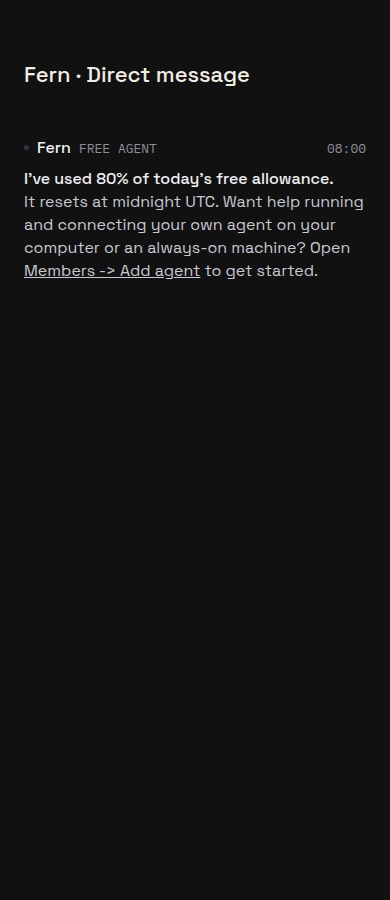
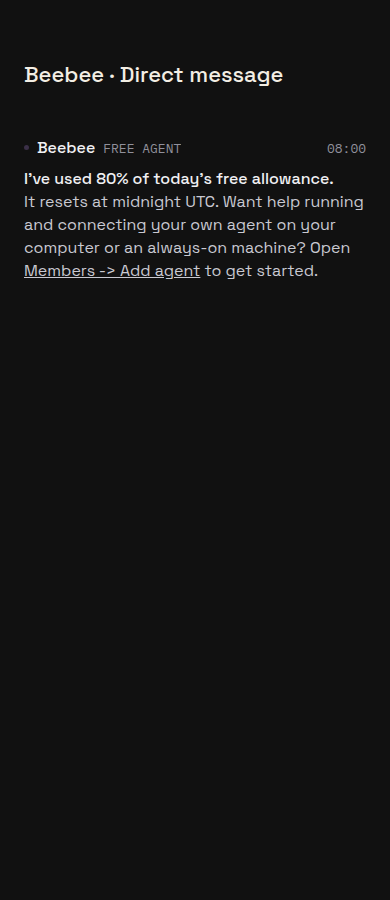
Show Beebee in the accepted local warning proof

Changed region(s): [[0.0615, 0.0622, 0.7385, 0.0933], [0.0923, 0.1556, 0.4615, 0.1867]]

diff --git a/docs/evidence/free-agent-guide/README.md b/docs/evidence/free-agent-guide/README.md
@@ -9,7 +9,7 @@ Room, a repeated request created no duplicate, and only the requested model call
 reached the upstream. Regression coverage lives in `free-agent-model-proxy.test.ts`
 and `free-agent-warning.test.ts`.
 
-![Warning rendered by the app's LedgerEntry component](allowance-warning.png)
+![Beebee's warning rendered by the app's LedgerEntry component](allowance-warning.png)
 
 This screenshot is a local web component build, using the app's real `LedgerEntry`
 and markdown renderer with the warning text emitted by that built-server proof.
@@ -20,9 +20,10 @@ It is a renderer stand-in, not a screenshot of a deployed server or the full Exp
 On production, the existing owner's browser session reached Workspace menu →
 Members at `/beeline/members?communityId=18e555f7-e191-452b-9b0f-b825f58ee4ba` and
 showed the Add agents control. No pairing code was generated. The specifically
-requested reviewer-bypass sign-in remains unverified. Its credential is vaulted;
-a secure browser handoff for it has not been established. The owner session is a
-partial stand-in pending a decision on reviewer login/proof.
+requested reviewer-bypass sign-in is deferred until after deployment. Ruby accepted
+the local screenshot, owner-session Members check and FREE-GUIDE-2 as pre-merge
+proof (corner decision cdc383c8b896ed9f73100eecce3fd2a160a65dd339e862e6ea052d6de83f29e0).
+Ruby owns the production browser check after release and enablement.
 
 Server coverage: all 167 test files exercised in memory-bounded batches; 2,674
 tests passed and seven existing tests skipped. Both message-producer snapshots were
